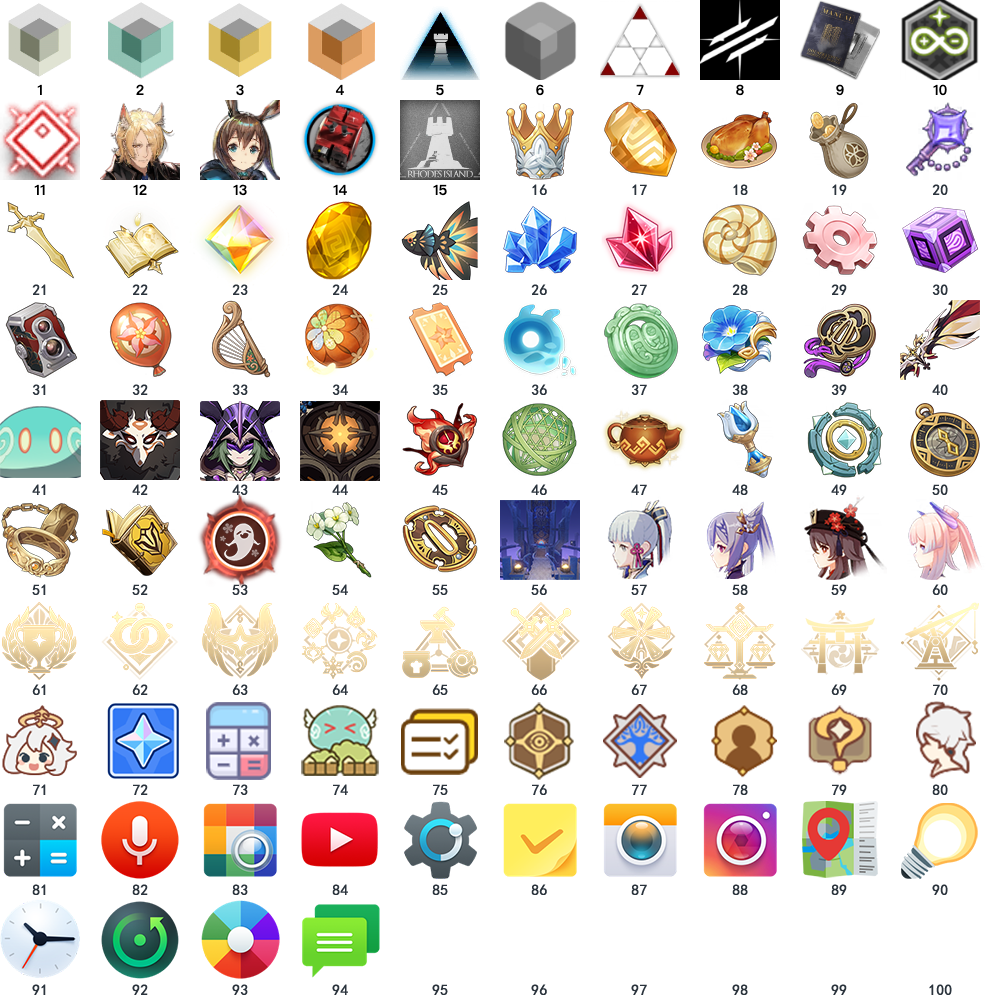
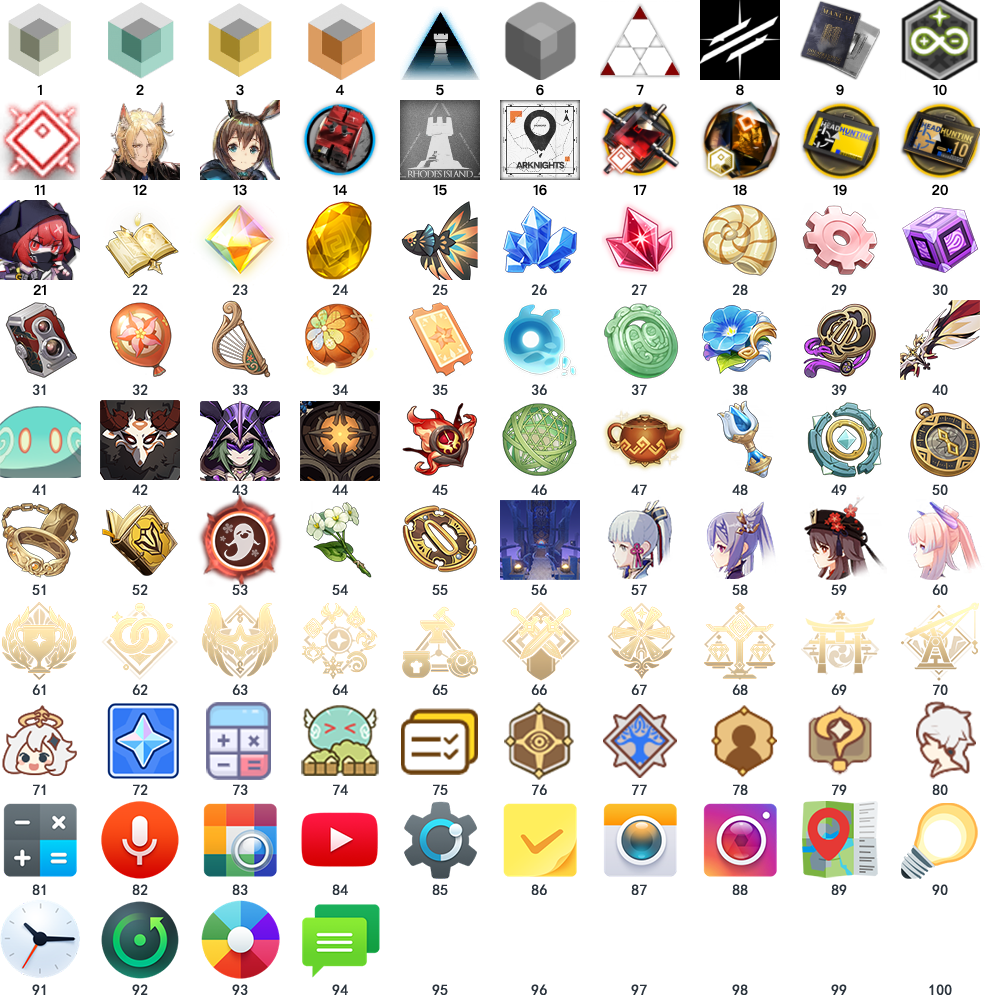
更新帮助

Changed region(s): [[0.496, 0.093, 0.992, 0.217], [0.0, 0.186, 0.093, 0.31]]

diff --git a/config/system/help_system.js b/config/system/help_system.js
@@ -51,21 +51,29 @@ export const helpList = [
       }
     ]
   }, {
-    group: '游戏信息查询(支持"#方舟","/",“~”前缀)',
+    group: '游戏信息查询(需要绑定账号，支持"#方舟","/",“~”前缀)',
     list: [
       {
         icon: 5,
         title: '/便签 /博士卡片',
         desc: '角色资料卡片'
-      }, {
+      },
+      {
         icon: 12,
         title: '/玛恩纳 /叔叔',
         desc: '干员练度卡片'
-      }, {
+      },
+      {
         icon: 7,
         title: '/练度统计 /练度统计2',
         desc: '干员练度统计，支持分页'
-      }, {
+      },
+      {
+        icon: 7,
+        title: '/练度卡片 /练度面板',
+        desc: '查看干员练度面板'
+      },
+      {
         icon: 13,
         title: '/练度分析 /BOX分析',
         desc: '分析BOX以及评分，仅供娱乐'
@@ -78,31 +86,66 @@ export const helpList = [
         icon: 9,
         title: '/签到',
         desc: '手动进行森空岛签到'
-      }, {
-        icon: 86,
-        title: '/公招查询+[TAG列表]',
-        desc: '例:/公招查询 高资 输出 辅助'
-      }, {
-        icon: 15,
-        title: '/公告 /公告列表',
-        desc: '查询鹰角官方发布的公告'
-      }, {
-        icon: 15,
-        title: '/公告1 /公告2',
-        desc: '查看公告列表中的具体公告内容'
-      }, {
-        icon: 14,
-        title: '/材料掉率 /刷图推荐',
-        desc: '从一图流获取材料掉率图'
-      }, {
+      },
+      {
         icon: 81,
         title: '/养成计算+[TAG列表]',
         desc: '例:/养成计算 推王 2 90 7 10 7'
-      }, {
+      },
+      {
         icon: 81,
         title: '/养成计算',
         desc: '不输入tag时可以获取命令帮助'
+      },
+      {
+        icon: 19,
+        title: '/抽卡记录 /寻访记录',
+        desc: '查看抽卡记录'
+      },
+      {
+        icon: 20,
+        title: '/抽卡分析 /寻访分析',
+        desc: '查看抽卡分析'
+      },
+      {
+        icon: 10,
+        title: '/肉鸽 /集成战略',
+        desc: '查看肉鸽完成情况'
       }
+    ]
+  }, {
+    group: '其他信息查询(不需要绑定账号，支持"#方舟","/",“~”前缀)',
+    list: [
+      {
+        icon: 15,
+        title: '/公告 /公告列表',
+        desc: '查询鹰角官方发布的公告'
+      },
+      {
+        icon: 15,
+        title: '/公告1 /公告2',
+        desc: '查看公告列表中的具体公告内容'
+      },
+      {
+        icon: 15,
+        title: '/材料掉率 /刷图推荐',
+        desc: '从一图流获取材料掉率图'
+      },
+      {
+        icon: 15,
+        title: '/公招查询+[TAG列表]',
+        desc: '从一图流获取材料掉率图'
+      },
+      {
+        icon: 21,
+        title: '/添加别名 /删除别名',
+        desc: '自定义干员别名, 例如/添加别名 银灰 前夫哥'
+      },
+      {
+        icon: 21,
+        title: '/查看别名',
+        desc: '查看干员别名, 例如/查看别名 银灰'
+      },
     ]
   }, {
     group: 'MAA远程控制',
